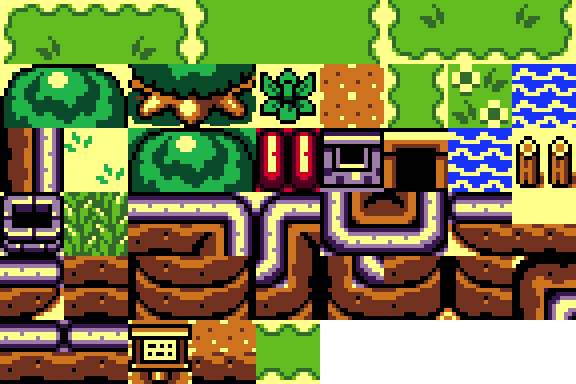
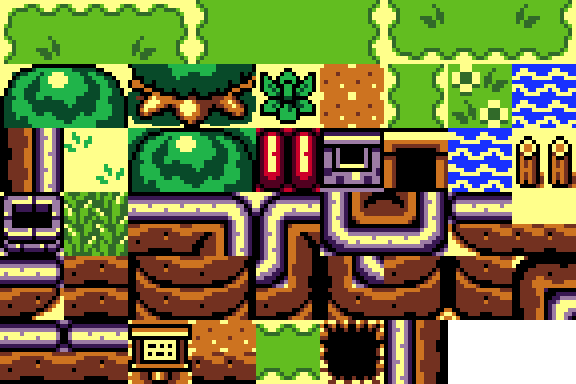
Add features
Add falling animation. H being hole you can fall into and h being hole you take damage from. Add left/right world movements and damage animations and added delta-time dividing so the same number can be used for both frame-wait and delta-time

Changed region(s): [[0.5312, 0.8125, 0.7812, 1.0]]

diff --git a/Untitled_Game_1/player.cpp b/Untitled_Game_1/player.cpp
@@ -50,15 +50,22 @@ Player::Player() : t_player(), s_player(t_player, 32, 32)
         {{64, 128}, {32, 32}},
     };
 
+    std::vector <sf::IntRect> jump_framesD = {
+        {{0, 224}, {32, 32}},
+        {{32, 224}, {32, 32}},
+        {{64, 224}, {32, 32}},
+    };
+
 	s_player.addAnimation("idle_d", idleFrames_D, 100.0f);
 	s_player.addAnimation("idle_u", idleFrames_U, 100.0f);
 	s_player.addAnimation("idle_l", idleFrames_L, 150.0f);
 	s_player.addAnimation("idle_r", idleFrames_R, 150.0f);
 	s_player.addAnimation("walk_down", walkFrames_Down, 10.0f);
 	s_player.addAnimation("walk_up", walkFrames_Up, 10.0f);
-	s_player.addAnimation("walk_left", walkFrames_Left, 10.0f);
-	s_player.addAnimation("walk_right", walkFrames_Right, 10.0f);
+	s_player.addAnimation("walk_left", walkFrames_Left, 8.0f);
+	s_player.addAnimation("walk_right", walkFrames_Right, 8.0f);
 	s_player.addAnimation("fall", fall_frames, 10.0f);
+	s_player.addAnimation("jump_d", jump_framesD, 10.0f);
 
 	s_player.switchAnimation("idle_d");
 	s_player.setScale(sf::Vector2f(2.0f, 2.0f));
@@ -96,9 +103,6 @@ void Player::move(float speed, std::vector<Tile> tiles)
         float length = std::sqrt(direction.x * direction.x + direction.y * direction.y);
         direction /= length;  // Normalize the vector
     }
-
-    // Store the current animation state
-    static std::string currentAnimation = "idle_d"; // Default animation
 
     // Handle animation changes based on movement
     if (canMove == true)
@@ -187,8 +191,6 @@ void Player::move_tiles(Maps* maps) {
     size_t size = 0;
     size_t size_c = 0;
 
-    std::string file_name = "Maps/row_" + std::to_string(maps->x) + ".txt";
-
     int x_p = maps->x;
     int y_p = maps->y;
 
@@ -201,29 +203,45 @@ void Player::move_tiles(Maps* maps) {
             maps->y -= 1;
         }
     }
-    else {
-        if (s_player.getPosition().y >= 480.0f) {
-            fadeClock.restart();
+    else if (s_player.getPosition().y >= 480.0f) {
+        fadeClock.restart();
 
-            if (alpha == 255)
-            {
-                s_player.setPosition({ s_player.getPosition().x, s_player.getPosition().y - 500 });
-                maps->y += 1;
-            }
+        if (alpha == 255)
+        {
+            s_player.setPosition({ s_player.getPosition().x, s_player.getPosition().y - 500 });
+            maps->y += 1;
         }
-    }
+	}
+	else if (s_player.getPosition().x <= -60.0f) {
+		fadeClock.restart();
+		if (alpha == 255)
+		{
+			s_player.setPosition({ s_player.getPosition().x + 640, s_player.getPosition().y });
+			maps->x -= 1;
+		}
+	}
+	else if (s_player.getPosition().x >= 650.0f) {
+		fadeClock.restart();
+		if (alpha == 255)
+		{
+			s_player.setPosition({ s_player.getPosition().x - 640, s_player.getPosition().y });
+			maps->x += 1;
+		}
+	}
 
     // We assume maps->map has methods for loading data
     // If the `processFileAndReturn*` methods use dynamic memory, ensure cleanup happens
     char* level_c = nullptr;
     int* level = nullptr;
 
-    // Make sure previously loaded data is cleaned up to avoid overlap
-    level = maps->map->processFileAndReturnInts(file_name, size, maps);
-    level_c = maps->map->processFileAndReturnChars(file_name, size_c, maps);
-
     if ((x_p != maps->x || y_p != maps->y) || start == true)
     {
+        std::string file_name = "Maps/row_" + std::to_string(maps->x) + ".txt";
+
+        // Make sure previously loaded data is cleaned up to avoid overlap
+        level = maps->map->processFileAndReturnInts(file_name, size, maps);
+        level_c = maps->map->processFileAndReturnChars(file_name, size_c, maps);
+
         // Only reload the map if necessary
         if (!(maps->map->load("res/overworld.png", { 64, 64 }, level, level_c, 10, 11))) {
             std::cerr << "Error: Could not load tilemap." << std::endl;
@@ -256,15 +274,22 @@ void Player::fade_clock()
 
 void Player::isFalling()
 {
-    if (falling == true && fall_count < 134) {
+    if (falling == true && fall_count < 142) {
         canMove = false;
-        fall_count += 6;
-        s_player.move({ 0, 6 });
+        fall_count += 5;
+        s_player.move({ 0, 5 });
+
+        if (isJumping == false) {
+            s_player.switchAnimation("jump_d");
+            isJumping = true;
+        }
     }
-    else if (fall_count >= 134) {
+    else if (fall_count >= 142) {
         canMove = true;
         falling = false;
+		isJumping = false;
         fall_count = 0;
+		s_player.switchAnimation("idle_d");
     }
 }
 

diff --git a/Untitled_Game_1/useful.cpp b/Untitled_Game_1/useful.cpp
@@ -77,7 +77,7 @@ bool TileMap::load(const std::filesystem::path& tileset, sf::Vector2u tileSize, 
                 cell.setScale({ 1.0f, 0.5f });
                 cell.setPosition({ i * 64.0f, j * 64.0f });
             }
-            else if (tiles_c[i + j * 10] == 'h') {
+            else if (tiles_c[i + j * 10] == 'H') {
                 cell.setScale({ 1.0f, 0.2f });
                 cell.setPosition({ i * 64.0f, j * 64.0f  + 54.0f});
             }
@@ -262,13 +262,13 @@ void AnimatableSprite::switchAnimation(const std::string& name)
 }
 
 void AnimatableSprite::update(sf::Time deltaTime) {
-    // DeltaTime
+    //// DeltaTime
     //if (m_currentAnimation.empty()) {
     //    return; // No animation set yet
     //}
 
     //Animation& animation = m_animations[m_currentAnimation];
-    //animation.elapsedTime += deltaTime;
+    //animation.elapsedTime += (deltaTime / 500.f);
 
     //// Change frame if enough time has passed
     //if (animation.elapsedTime >= sf::seconds(1.f / animation.frameRate)) {
@@ -284,7 +284,7 @@ void AnimatableSprite::update(sf::Time deltaTime) {
 
     Animation& animation = m_animations[m_currentAnimation];
 
-    // Increment the frame counter
+    //// Increment the frame counter
     animation.frameCounter++;
 
     // If enough frames have passed, change the frame

diff --git a/Untitled_Game_1/player.hpp b/Untitled_Game_1/player.hpp
@@ -35,6 +35,10 @@ private:
 	bool canMove = true;
 	bool start;
 	bool falling = false;
+	bool isJumping = false;
+
+	// Store the current animation state
+	std::string currentAnimation; // Default animation
 
 	void move(float speed, std::vector<Tile> tiles);
 	void move_tiles(Maps *maps);
